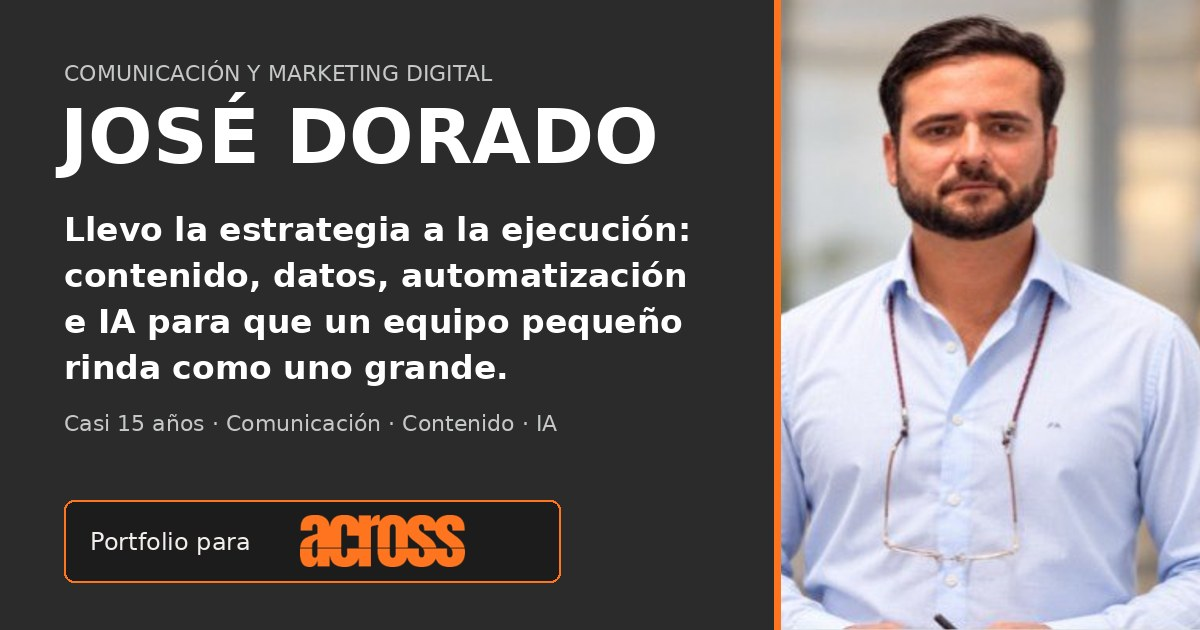
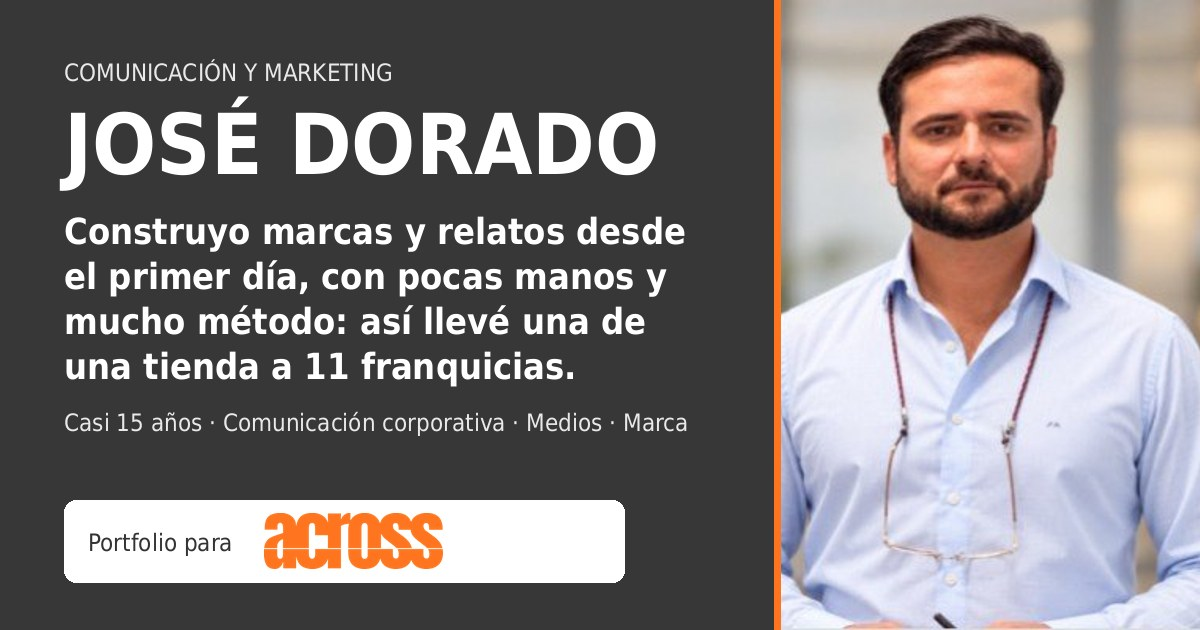
Add files via upload

diff --git a/across/js/content.js b/across/js/content.js
@@ -16,14 +16,14 @@ window.PORTFOLIO = {
   /* ---------- Identidad y contacto ---------- */
   person: {
     name: "José Dorado",
-    valueProp: "Llevo la estrategia a la ejecución: contenido, datos, automatización e IA para que un equipo pequeño rinda como uno grande.",
-    headline: "Comunicación corporativa, contenido y marketing digital con IA y automatización.",
-    eyebrow: "Comunicación y marketing digital · Sevilla",
+    valueProp: "Construyo marcas y relatos desde el primer día, con pocas manos y mucho método: así llevé una de una tienda a 11 franquicias.",
+    headline: "Comunicación corporativa, posicionamiento de marca y contenido.",
+    eyebrow: "Comunicación corporativa · Sevilla",
     intro:
       "Llevo casi 15 años construyendo marcas y contando su crecimiento: de una tienda a 11 franquicias por España, y hoy la comunicación completa de una cadena de nueve cines. Ordeno mensajes, canales y equipos cuando una organización suma sedes y marcas.",
-    availability: "Disponible en 15 días · Presencial o remoto",
+    availability: "Disponible en 15 días · En remoto, con viajes a Madrid cuando haga falta",
     seeking:
-      "Quiero sumarme a ACROSS desde su lanzamiento y poner mi ejecución digital al servicio de su red. Puedo incorporarme en 15 días.",
+      "Quiero aportar a Across en comunicación, marca y contenido. Trabajo en remoto desde Sevilla y estaré encantado de subir a Madrid siempre que el proyecto lo pida, ya sea para reunirme con el equipo, con un cliente o para una presentación. Puedo incorporarme en 15 días.",
     photo: "assets/img/jose-dorado.jpg",
     photoAlt: "Retrato de José Dorado",
     photoCutout: "assets/img/jose-dorado-recorte.webp",  /* retrato sin fondo para el efecto al pasar el ratón */
@@ -34,35 +34,35 @@ window.PORTFOLIO = {
     linkedin: "https://www.linkedin.com/in/jose-dorado/",
     cv: "docs/CV-Jose-Dorado-2027.pdf",
     cvNote: "",
-    updated: "octubre 2026",
-    version: "V10 · ACROSS"
+    updated: "septiembre 2026",
+    version: "V12 · Across"
   },
 
   /* ---------- Versión personalizada para una empresa ----------
      Si borras este bloque (o lo dejas en null), la sección desaparece. */
   company: {
-    name: "ACROSS",
-    navLabel: "Para ACROSS",
+    name: "Across",
+    navLabel: "Para Across",
     logo: "assets/img/logo-across.png",
-    eyebrow: "Por qué ACROSS",
+    eyebrow: "Por qué Across",
     title: "Lo que puedo aportar",
     intro:
-      "ACROSS es la consultora de asuntos corporativos y políticos que Ignacio Jiménez Soler acaba de fundar, tras dirigir la comunicación de Cellnex, Endesa, Telefónica y BBVA. Trabaja en red en 23 países, con un máximo de tres proyectos estratégicos a la vez, y nace con dos proyectos propios: The Positioning Room y Marcomplan. Una firma de alto rendimiento recién lanzada necesita que su propia comunicación esté a la altura desde el primer día. Ahí es donde puedo aportar.",
+      "Across nace en octubre de 2026 como consultora de asuntos corporativos y públicos: comunicación, estrategia, análisis, lobbying y estrategias cognitivas para empresas, gobiernos y organizaciones. Tiene sede en Madrid, una red de colaboradores en 23 países y dos proyectos propios, The Positioning Room y Marcomplan. Marca, lanzamientos y trabajo en red: tres frentes donde ya he trabajado.",
     cards: [
       {
-        theirs: "The Positioning Room: que el análisis llegue",
-        context: "Un think tank sobre ofensivas cognitivas, desinformación y acciones híbridas. Su valor depende de que cada análisis llegue a CEOs, consejeros y gobiernos en el formato y el canal adecuados.",
-        mine: "Cada viernes publico en LinkedIn el análisis de un caso de marca de actualidad: tesis propia, lenguaje claro y pregunta abierta. Automatizo newsletters y contenido con Make e IA para mantener el ritmo sin perder calidad."
+        theirs: "Una firma nueva que tiene que hacerse un nombre",
+        context: "Una consultora recién nacida, con un modelo propio basado en la calidad del diagnóstico, que necesita marca, posicionamiento y presencia desde el primer día.",
+        mine: "Sé construir una marca desde cero: llevé Elite Gaming Center de una tienda a 11 franquicias, con un mismo relato para la central y la red. Hoy soy el departamento de marketing completo de una cadena de cines."
       },
       {
-        theirs: "Marcomplan: atraer al alumno adecuado",
-        context: "Un centro de formación de alto rendimiento en comunicación y liderazgo, dirigido a directivos y organizaciones que quieren protegerse de campañas de desprestigio.",
-        mine: "Lanzamientos multicanal de principio a fin: secuencias de email, paid media y acción presencial. Más de 10M de impresiones con menos de 5.000 € de inversión, y formación interna en automatización."
+        theirs: "Lanzar The Positioning Room y Marcomplan",
+        context: "Un centro de investigación cuya primera publicación, sobre campañas de desinformación con IA agéntica, está prevista para noviembre, y un centro de formación para la primavera de 2027.",
+        mine: "Lanzamientos multicanal con email, paid media y contenido: más de 25 campañas con más de 10M de impresiones y menos de 5.000 €. Diseño gráfico e imagen y vídeo con IA generativa para cada pieza."
       },
       {
-        theirs: "«Hibridación entre el mundo físico y la IA»",
-        context: "Así se define ACROSS: una red de especialistas que se activa por proyecto bajo una misma dirección, con inteligencia contextual y acción precisa.",
-        mine: "Llevo años haciendo que un equipo pequeño rinda como uno grande: más de 15 horas semanales ahorradas con Make, APIs e IA generativa en Cines Artesiete, y una central y 11 franquicias alineadas bajo un mismo relato en Elite Gaming Center."
+        theirs: "Un modelo en red, ágil y con pocas manos",
+        context: "Estructura reducida, clientes seleccionados y profesionales que se suman a cada proyecto según lo que necesite.",
+        mine: "Trabajo en remoto desde Sevilla, con la maleta lista para subir a Madrid cuando un proyecto lo necesite, y estoy acostumbrado a hacer mucho con poco: automatizo procesos con Make, APIs e IA, con más de 15 horas ahorradas a la semana, y cada viernes publico en LinkedIn un análisis de cómo comunican las marcas."
       }
     ]
   },
@@ -72,8 +72,8 @@ window.PORTFOLIO = {
   facts: [
     { label: "Ahora", value: "Marketing y comunicación en Cines Artesiete, cadena nacional de 9 cines" },
     { label: "Trayectoria", value: "Casi 15 años en marketing" },
-    { label: "Base", value: "Sevilla · remoto o presencial donde haga falta" },
-    { label: "Disponible", value: "En 15 días · presencial o remoto" },
+    { label: "Base", value: "Sevilla" },
+    { label: "Disponible", value: "En 15 días · remoto, con viajes a Madrid" },
     { label: "Formación", value: "Máster ESIC en Dirección de Marketing y Gestión Comercial" },
     { label: "Idiomas", value: "Español · Inglés B2 (First Certificate)" }
   ],
@@ -202,6 +202,57 @@ window.PORTFOLIO = {
      fit: "cover" para fotos, "contain" para capturas de pantalla */
   projects: [
     {
+      id: "egc-escalado",
+      featured: true,
+      type: "Proyecto profesional",
+      client: "Elite Gaming Center",
+      experience: "egc",
+      year: "2014 — 2020",
+      title: "De una tienda a 11 franquicias",
+      summary:
+        "El marketing detrás de la expansión de Elite Gaming Center por España, desde el primer local hasta la red de franquicias.",
+      role: "Técnico de Marketing, después COO / Project Manager y finalmente CMO.",
+      did: [
+        "Plan estratégico de marketing con producto y ventas: posicionamiento, precios y mensajes.",
+        "Storytelling de marca y comunicación interna para central y franquicias.",
+        "Supervisión de las redes sociales de toda la red.",
+        "Portavoz ante medios y gestión de crisis.",
+        "Liderazgo de equipos de hasta 50 personas."
+      ],
+      tools: [],
+      result: "De 15.000 € al año a 2,1M€ de facturación, y de una tienda a 11 franquicias.",
+      image: "assets/img/elite-gaming-center.webp",
+      imageAlt: "Puesto de juego de Elite Gaming Center con silla y monitor de la marca en un evento",
+      caption: "Presencia de marca de Elite Gaming Center en evento.",
+      ratio: "4 / 3",
+      fit: "cover",
+      links: []
+    },
+    {
+      id: "paid-artesiete",
+      featured: true,
+      type: "Proyecto profesional",
+      client: "Cines Artesiete",
+      experience: "artesiete",
+      year: "2023 — actualidad",
+      title: "Paid media con presupuesto contenido",
+      summary:
+        "Más de 25 campañas en Meta y Google para una cadena de nueve cines, con menos de 5.000 € de inversión.",
+      role: "Planificación, creatividad y gestión de las campañas.",
+      did: [
+        "Campañas para inauguraciones, lanzamientos de producto y el lanzamiento de la app.",
+        "Coordinación con email y acciones en sala dentro de campañas multicanal."
+      ],
+      tools: ["Meta Business Suite", "Google Ads", "Canva", "Adobe"],
+      result: "Más de 10M de impresiones con menos de 5.000 € de inversión: menos de 0,50 € por cada mil impresiones.",
+      image: "assets/img/paid-sorteo.webp",
+      imageAlt: "Creatividad de sorteo: 2 entradas de cine, ramo de rosas y foto profesional, con la colaboración de El Galeón flores y plantas",
+      caption: "Creatividad de sorteo en colaboración con El Galeón flores y plantas.",
+      ratio: "1 / 1",
+      fit: "cover",
+      links: []
+    },
+    {
       id: "automatizacion",
       featured: true,
       type: "Proyecto profesional",
@@ -260,57 +311,6 @@ window.PORTFOLIO = {
         { label: "Ahora", src: "assets/img/app-ahora.webp", alt: "Nueva app de Cines Artesiete: menús del ambigú y cartelera con promoción de la Fiesta del Cine", fit: "contain" }
       ],
       image: "",
-      links: []
-    },
-    {
-      id: "paid-artesiete",
-      featured: true,
-      type: "Proyecto profesional",
-      client: "Cines Artesiete",
-      experience: "artesiete",
-      year: "2023 — actualidad",
-      title: "Paid media con presupuesto contenido",
-      summary:
-        "Más de 25 campañas en Meta y Google para una cadena de nueve cines, con menos de 5.000 € de inversión.",
-      role: "Planificación, creatividad y gestión de las campañas.",
-      did: [
-        "Campañas para inauguraciones, lanzamientos de producto y el lanzamiento de la app.",
-        "Coordinación con email y acciones en sala dentro de campañas multicanal."
-      ],
-      tools: ["Meta Business Suite", "Google Ads", "Canva", "Adobe"],
-      result: "Más de 10M de impresiones con menos de 5.000 € de inversión: menos de 0,50 € por cada mil impresiones.",
-      image: "assets/img/paid-sorteo.webp",
-      imageAlt: "Creatividad de sorteo: 2 entradas de cine, ramo de rosas y foto profesional, con la colaboración de El Galeón flores y plantas",
-      caption: "Creatividad de sorteo en colaboración con El Galeón flores y plantas.",
-      ratio: "1 / 1",
-      fit: "cover",
-      links: []
-    },
-    {
-      id: "egc-escalado",
-      featured: true,
-      type: "Proyecto profesional",
-      client: "Elite Gaming Center",
-      experience: "egc",
-      year: "2014 — 2020",
-      title: "De una tienda a 11 franquicias",
-      summary:
-        "El marketing detrás de la expansión de Elite Gaming Center por España, desde el primer local hasta la red de franquicias.",
-      role: "Técnico de Marketing, después COO / Project Manager y finalmente CMO.",
-      did: [
-        "Plan estratégico de marketing con producto y ventas: posicionamiento, precios y mensajes.",
-        "Storytelling de marca y comunicación interna para central y franquicias.",
-        "Supervisión de las redes sociales de toda la red.",
-        "Portavoz ante medios y gestión de crisis.",
-        "Liderazgo de equipos de hasta 50 personas."
-      ],
-      tools: [],
-      result: "De 15.000 € al año a 2,1M€ de facturación, y de una tienda a 11 franquicias.",
-      image: "assets/img/elite-gaming-center.webp",
-      imageAlt: "Puesto de juego de Elite Gaming Center con silla y monitor de la marca en un evento",
-      caption: "Presencia de marca de Elite Gaming Center en evento.",
-      ratio: "4 / 3",
-      fit: "cover",
       links: []
     },
     {

diff --git a/across/css/styles.css b/across/css/styles.css
@@ -1,38 +1,36 @@
 /* Layout concept: una "ficha técnica" de cine aplicada a un perfil de comunicación. Versión ACROSS.
-   Paleta tomada de weareacross.com (Shaping Public Trust):
-   carbón #2b2b2b (fondo de marca) · naranja ACROSS #ff751f (acento) · salvia #616e67 (secundario) · piedra #d7cbc1 / #dbd5d3 (neutros cálidos).
-   El naranja puro no llega a contraste AA sobre claro, así que en modo claro el texto y los botones usan un naranja tostado (#b84a05);
-   el naranja vivo se reserva para la banda oscura, filetes y el modo oscuro, como en su web. */
+   Paleta corporativa de ACROSS: blanco #FFFFFF (fondo), gris antracita #373737 (texto, títulos y franja de créditos)
+   y naranja #FF751F (botones, filetes y acentos; oscurecido a #c2520c cuando es texto sobre blanco). Siempre en claro. */
 :root {
-  --carbon: #2b2b2b; --naranja: #ff751f; --tostado: #b84a05; --salvia: #616e67; --piedra: #d7cbc1;
+  --antracita: #373737; --naranja: #ff751f; --naranja-deep: #c2520c; --negro: #1f1f1f;
 
-  --bg: #f4f1ee;
-  --surface: #fdfcfb;
-  --ink: #232323;
-  --heading: var(--carbon);
-  --muted: #545b57;
-  --line: #ddd6d0;
-  --rule: var(--naranja);
-  --deco: #c9beb4;
-  --accent: var(--tostado);
+  --bg: #ffffff;
+  --surface: #ffffff;
+  --ink: #2b2b2b;
+  --heading: var(--antracita);
+  --muted: #5a5a5a;
+  --line: #e6e6e6;
+  --rule: var(--antracita);
+  --deco: #c9c9c9;
+  --accent: var(--naranja);
   --tertiary: var(--naranja);
-  --accent-ink: var(--tostado);
-  --arrow: var(--tostado);
-  --btn-bg: var(--carbon); --btn-ink: #ffffff; --btn-hover: #000000;
-  --tag-bg: var(--salvia); --tag-ink: #ffffff;
-  --band: var(--carbon);
-  --band-ink: #f4f1ee;
-  --band-muted: #c4c9c6;
+  --accent-ink: var(--naranja-deep);
+  --arrow: var(--naranja-deep);
+  --btn-bg: var(--naranja); --btn-ink: var(--negro); --btn-hover: #ff8c45;
+  --tag-bg: var(--antracita); --tag-ink: #ffffff;
+  --band: var(--antracita);
+  --band-ink: #ffffff;
+  --band-muted: #d6d6d6;
   --band-accent: var(--naranja);
-  --band-card: #363636;
-  --band-line: #4a4a4a;
-  --ph-bg: #fbe6d8;
-  --ph-ink: var(--tostado);
+  --band-card: #424242;
+  --band-line: #555555;
+  --ph-bg: #fff1e8;
+  --ph-ink: var(--naranja-deep);
   --ph-line: var(--naranja);
-  --focus: var(--naranja);
+  --focus: var(--naranja-deep);
   --mark: transparent;
-  --link-line: #f2b48c;
-  --t1-bg: #efe8e1;
+  --link-line: var(--naranja);
+  --t1-bg: #fff3eb;
 
   --f-display: "Big Shoulders Display", "Arial Narrow", "Roboto Condensed", sans-serif;
   --f-body: "Schibsted Grotesk", "Helvetica Neue", Arial, sans-serif;
@@ -43,26 +41,8 @@
   --gutter: clamp(16px, 4vw, 40px);
   --radius: 6px;
 }
-@media (prefers-color-scheme: dark) {
-  :root:not([data-theme="light"]) {
-    --bg: #1c1c1c; --surface: #262626; --ink: #f1eeeb; --heading: #f1eeeb; --muted: #b9bfbb; --line: #3a3a3a; --rule: var(--naranja); --deco: #4a4a4a;
-    --accent: var(--naranja); --tertiary: var(--naranja); --accent-ink: #ff8f4a; --arrow: var(--naranja);
-    --btn-bg: var(--naranja); --btn-ink: #1c1c1c; --btn-hover: #ff9152; --link-line: #7a4220;
-    --tag-bg: #8a968f; --tag-ink: #1c1c1c;
-    --band: #111111; --band-ink: #f1eeeb; --band-muted: #b9bfbb; --band-accent: var(--naranja); --band-card: #222222; --band-line: #3a3a3a;
-    --ph-bg: #2e2219; --ph-ink: #ff8f4a; --ph-line: var(--naranja); --focus: var(--naranja); --mark: transparent; --t1-bg: #262626;
-    color-scheme: dark;
-  }
-}
-:root[data-theme="dark"] {
-    --bg: #1c1c1c; --surface: #262626; --ink: #f1eeeb; --heading: #f1eeeb; --muted: #b9bfbb; --line: #3a3a3a; --rule: var(--naranja); --deco: #4a4a4a;
-    --accent: var(--naranja); --tertiary: var(--naranja); --accent-ink: #ff8f4a; --arrow: var(--naranja);
-    --btn-bg: var(--naranja); --btn-ink: #1c1c1c; --btn-hover: #ff9152; --link-line: #7a4220;
-    --tag-bg: #8a968f; --tag-ink: #1c1c1c;
-    --band: #111111; --band-ink: #f1eeeb; --band-muted: #b9bfbb; --band-accent: var(--naranja); --band-card: #222222; --band-line: #3a3a3a;
-    --ph-bg: #2e2219; --ph-ink: #ff8f4a; --ph-line: var(--naranja); --focus: var(--naranja); --mark: transparent; --t1-bg: #262626;
-    color-scheme: dark;
-}
+/* Siempre en claro: fondo blanco también con el modo oscuro del sistema */
+:root { color-scheme: light; }
 
 *, *::before, *::after { box-sizing: border-box; }
 html { scroll-behavior: smooth; scroll-padding-top: 76px; }
@@ -558,12 +538,10 @@ details.more[open] .inner { animation: more-in .24s var(--ease-out); }
 /* Texto solo para lectores de pantalla */
 .vh { position: absolute !important; width: 1px; height: 1px; padding: 0; margin: -1px; overflow: hidden; clip: rect(0 0 0 0); white-space: nowrap; border: 0; }
 
-/* ---------- ACROSS: títulos en carbón, apellido en naranja y logo junto al nombre ---------- */
+/* ---------- ACROSS: títulos en antracita y logo junto al nombre ---------- */
 h1, h2, h3, h4, .brand, .numbers .n, .sheet-photo .who { color: var(--heading); }
 .credits h2, .credits h3, .credit-card h3 { color: var(--band-ink); }
-.brand span { color: var(--tostado); }
-@media (prefers-color-scheme: dark) { :root:not([data-theme="light"]) .brand span { color: var(--naranja); } }
-:root[data-theme="dark"] .brand span { color: var(--naranja); }
+.brand span { color: var(--naranja-deep); }
 .brand-lockup { display: inline-flex; align-items: center; gap: var(--s3); min-width: 0; }
 .brand-x { font-family: var(--f-mono); font-size: 14px; color: var(--muted); }
 .co-logo { height: 26px; width: auto; display: block; }
@@ -571,7 +549,7 @@ h1, h2, h3, h4, .brand, .numbers .n, .sheet-photo .who { color: var(--heading); 
 @media (max-width: 760px) {
   .brand-lockup { order: 1; padding-block: var(--s2); gap: var(--s2); }
   .brand-lockup .brand { order: 0; padding-block: 0; font-size: 18px; }
-  .co-logo { height: 24px; }
+  .co-logo { height: 20px; }
   .head-cta { min-height: 44px; padding: 0 var(--s4); }
 }
 .nav a { white-space: nowrap; }

diff --git a/across/index.html b/across/index.html
@@ -3,14 +3,13 @@
 <head>
 <meta charset="utf-8">
 <meta name="viewport" content="width=device-width, initial-scale=1, viewport-fit=cover">
-<meta name="theme-color" media="(prefers-color-scheme: light)" content="#f4f1ee">
-<meta name="theme-color" media="(prefers-color-scheme: dark)" content="#1c1c1c">
-<meta name="color-scheme" content="light dark">
-<title>José Dorado · Comunicación y marketing digital para ACROSS</title>
+<meta name="theme-color" content="#ffffff">
+<meta name="color-scheme" content="light">
+<title>José Dorado · Comunicación corporativa para Across</title>
 <meta name="robots" content="noindex">
-<meta name="description" content="Portfolio de José Dorado: comunicación corporativa, contenido y marketing digital con IA y automatización. Casi 15 años de experiencia. Sevilla.">
-<meta property="og:title" content="José Dorado · Comunicación y marketing digital para ACROSS">
-<meta property="og:description" content="Llevo la estrategia a la ejecución: contenido, datos, automatización e IA para que un equipo pequeño rinda como uno grande.">
+<meta name="description" content="Portfolio de José Dorado: comunicación corporativa, posicionamiento de marca y contenido. Casi 15 años de experiencia. Sevilla.">
+<meta property="og:title" content="José Dorado · Comunicación corporativa para Across">
+<meta property="og:description" content="Construyo marcas y relatos desde el primer día, con pocas manos y mucho método: así llevé una de una tienda a 11 franquicias. Comunicación corporativa, posicionamiento de marca y contenido.">
 <meta property="og:type" content="website">
 <meta property="og:url" content="https://romadorado.github.io/Portfolio/across/">
 <meta property="og:image" content="https://romadorado.github.io/Portfolio/across/assets/og.jpg">
